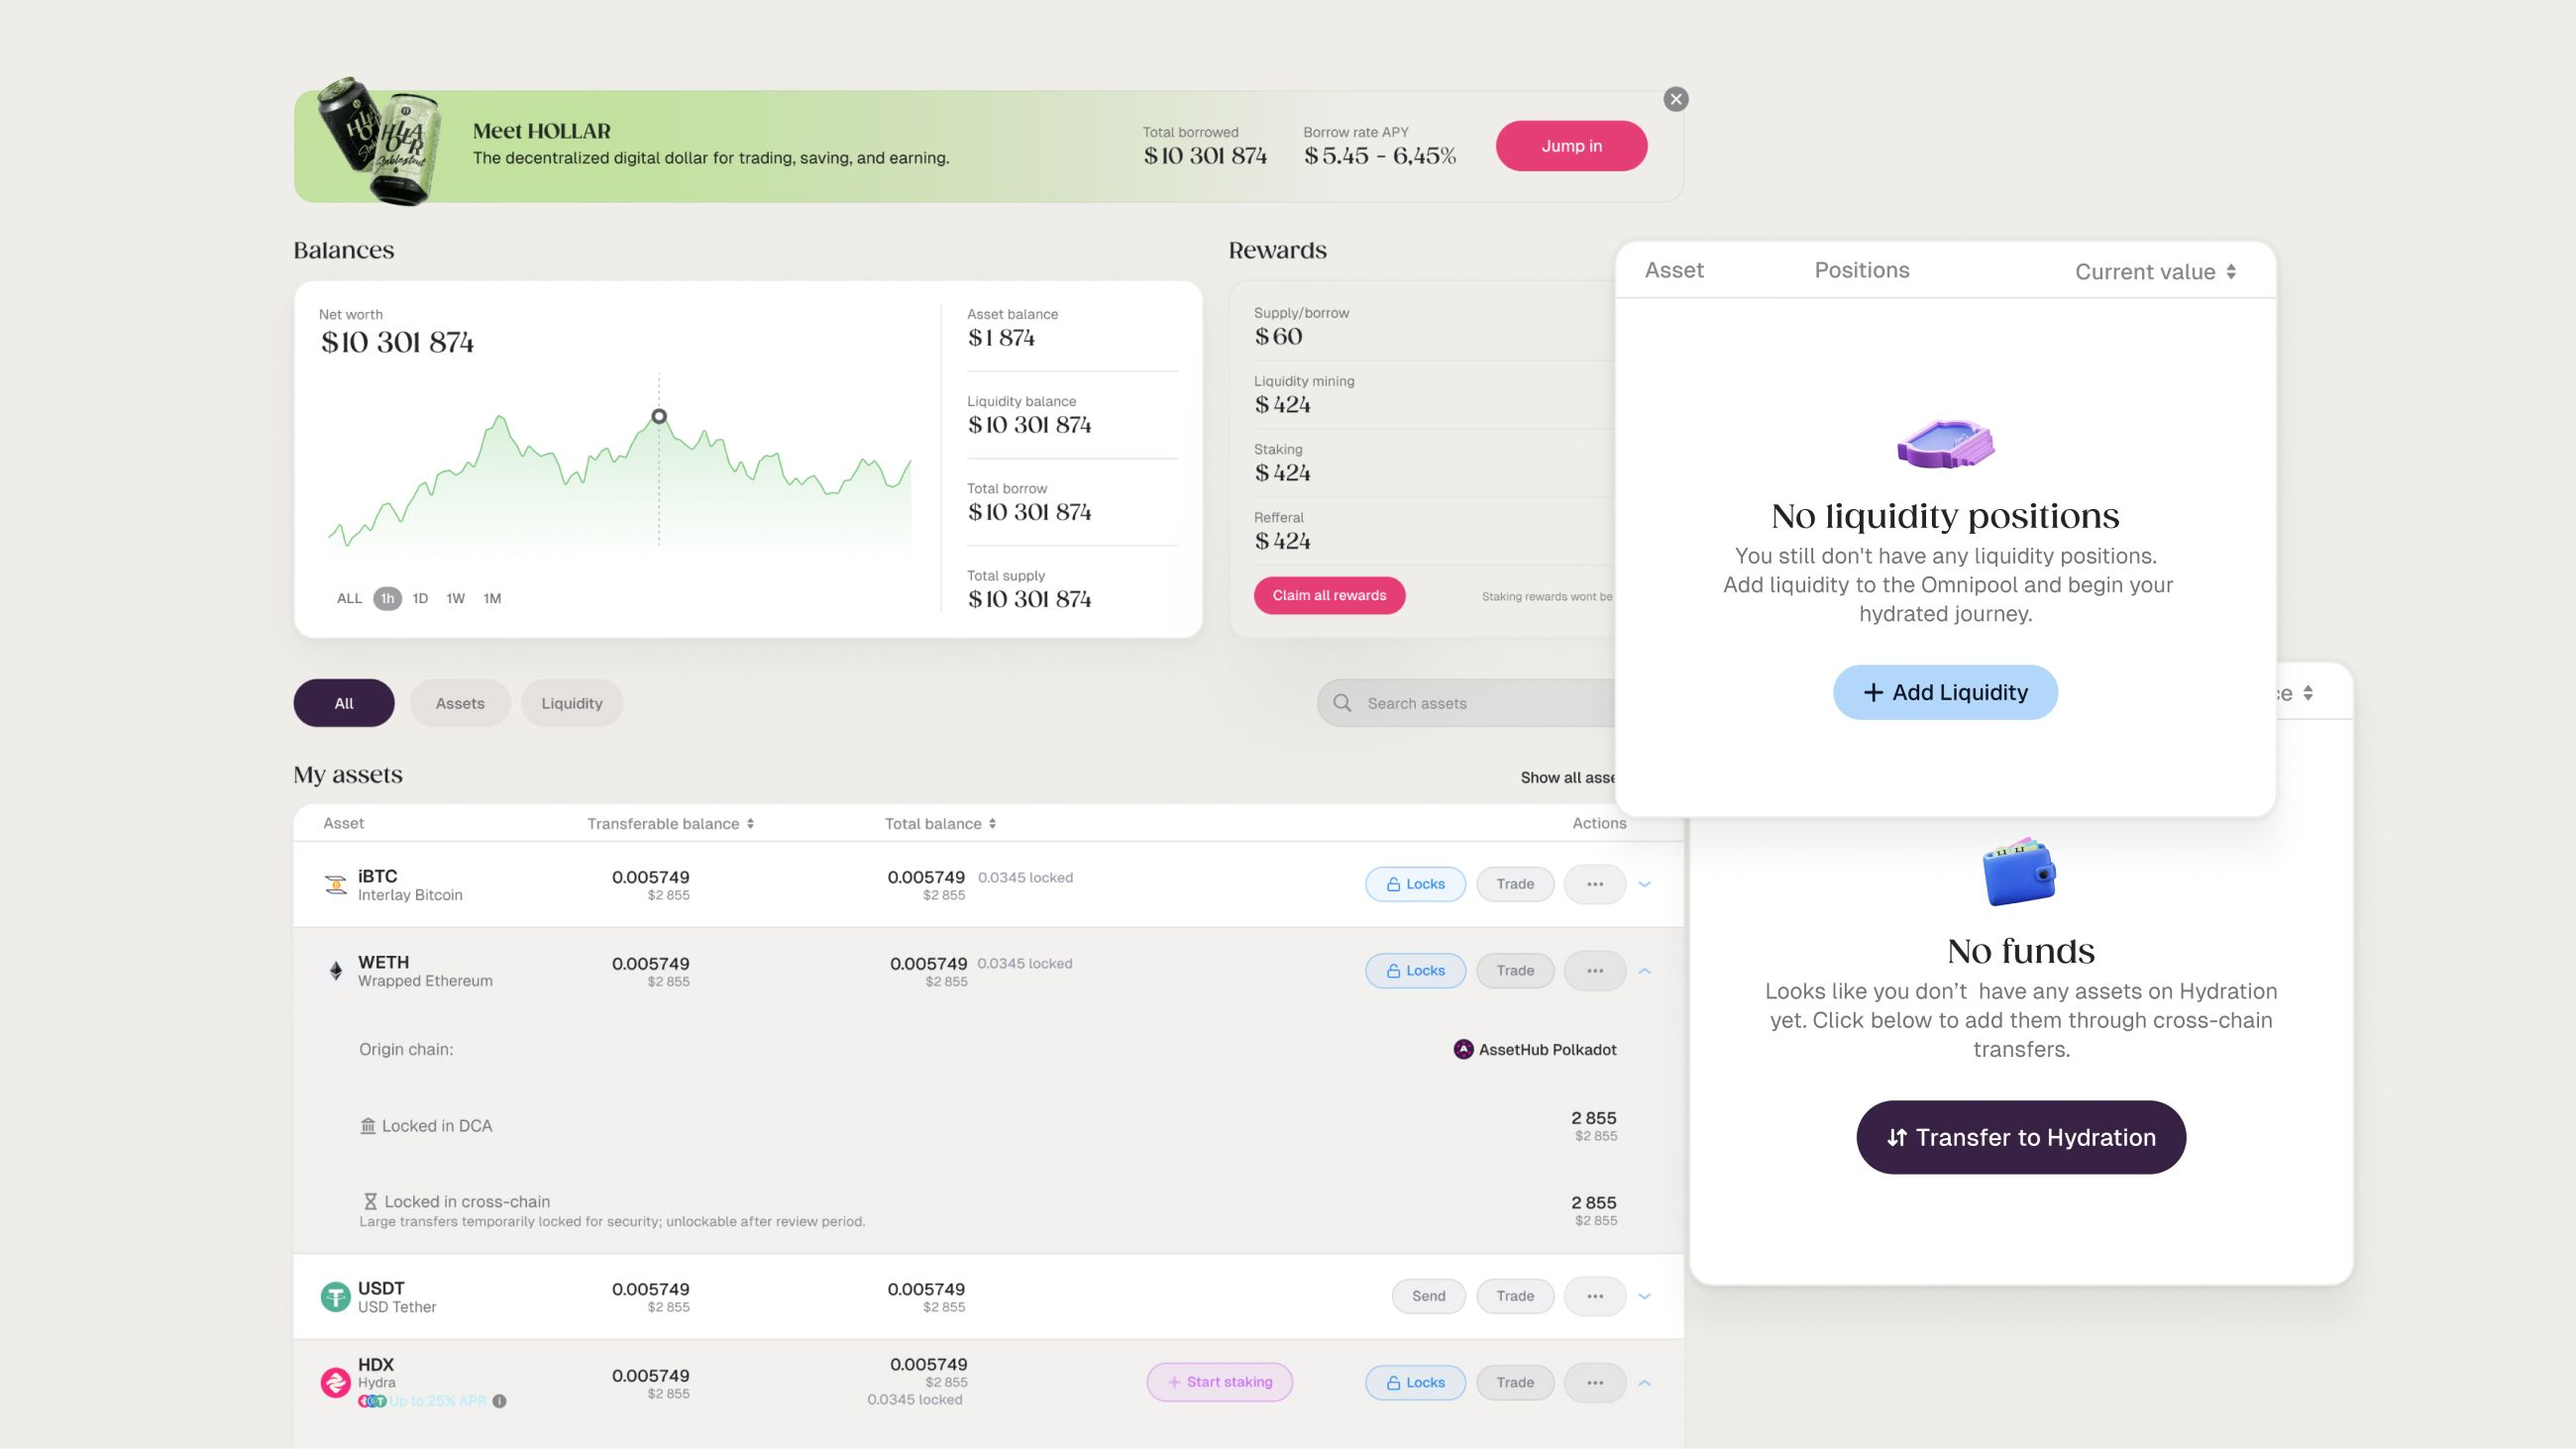
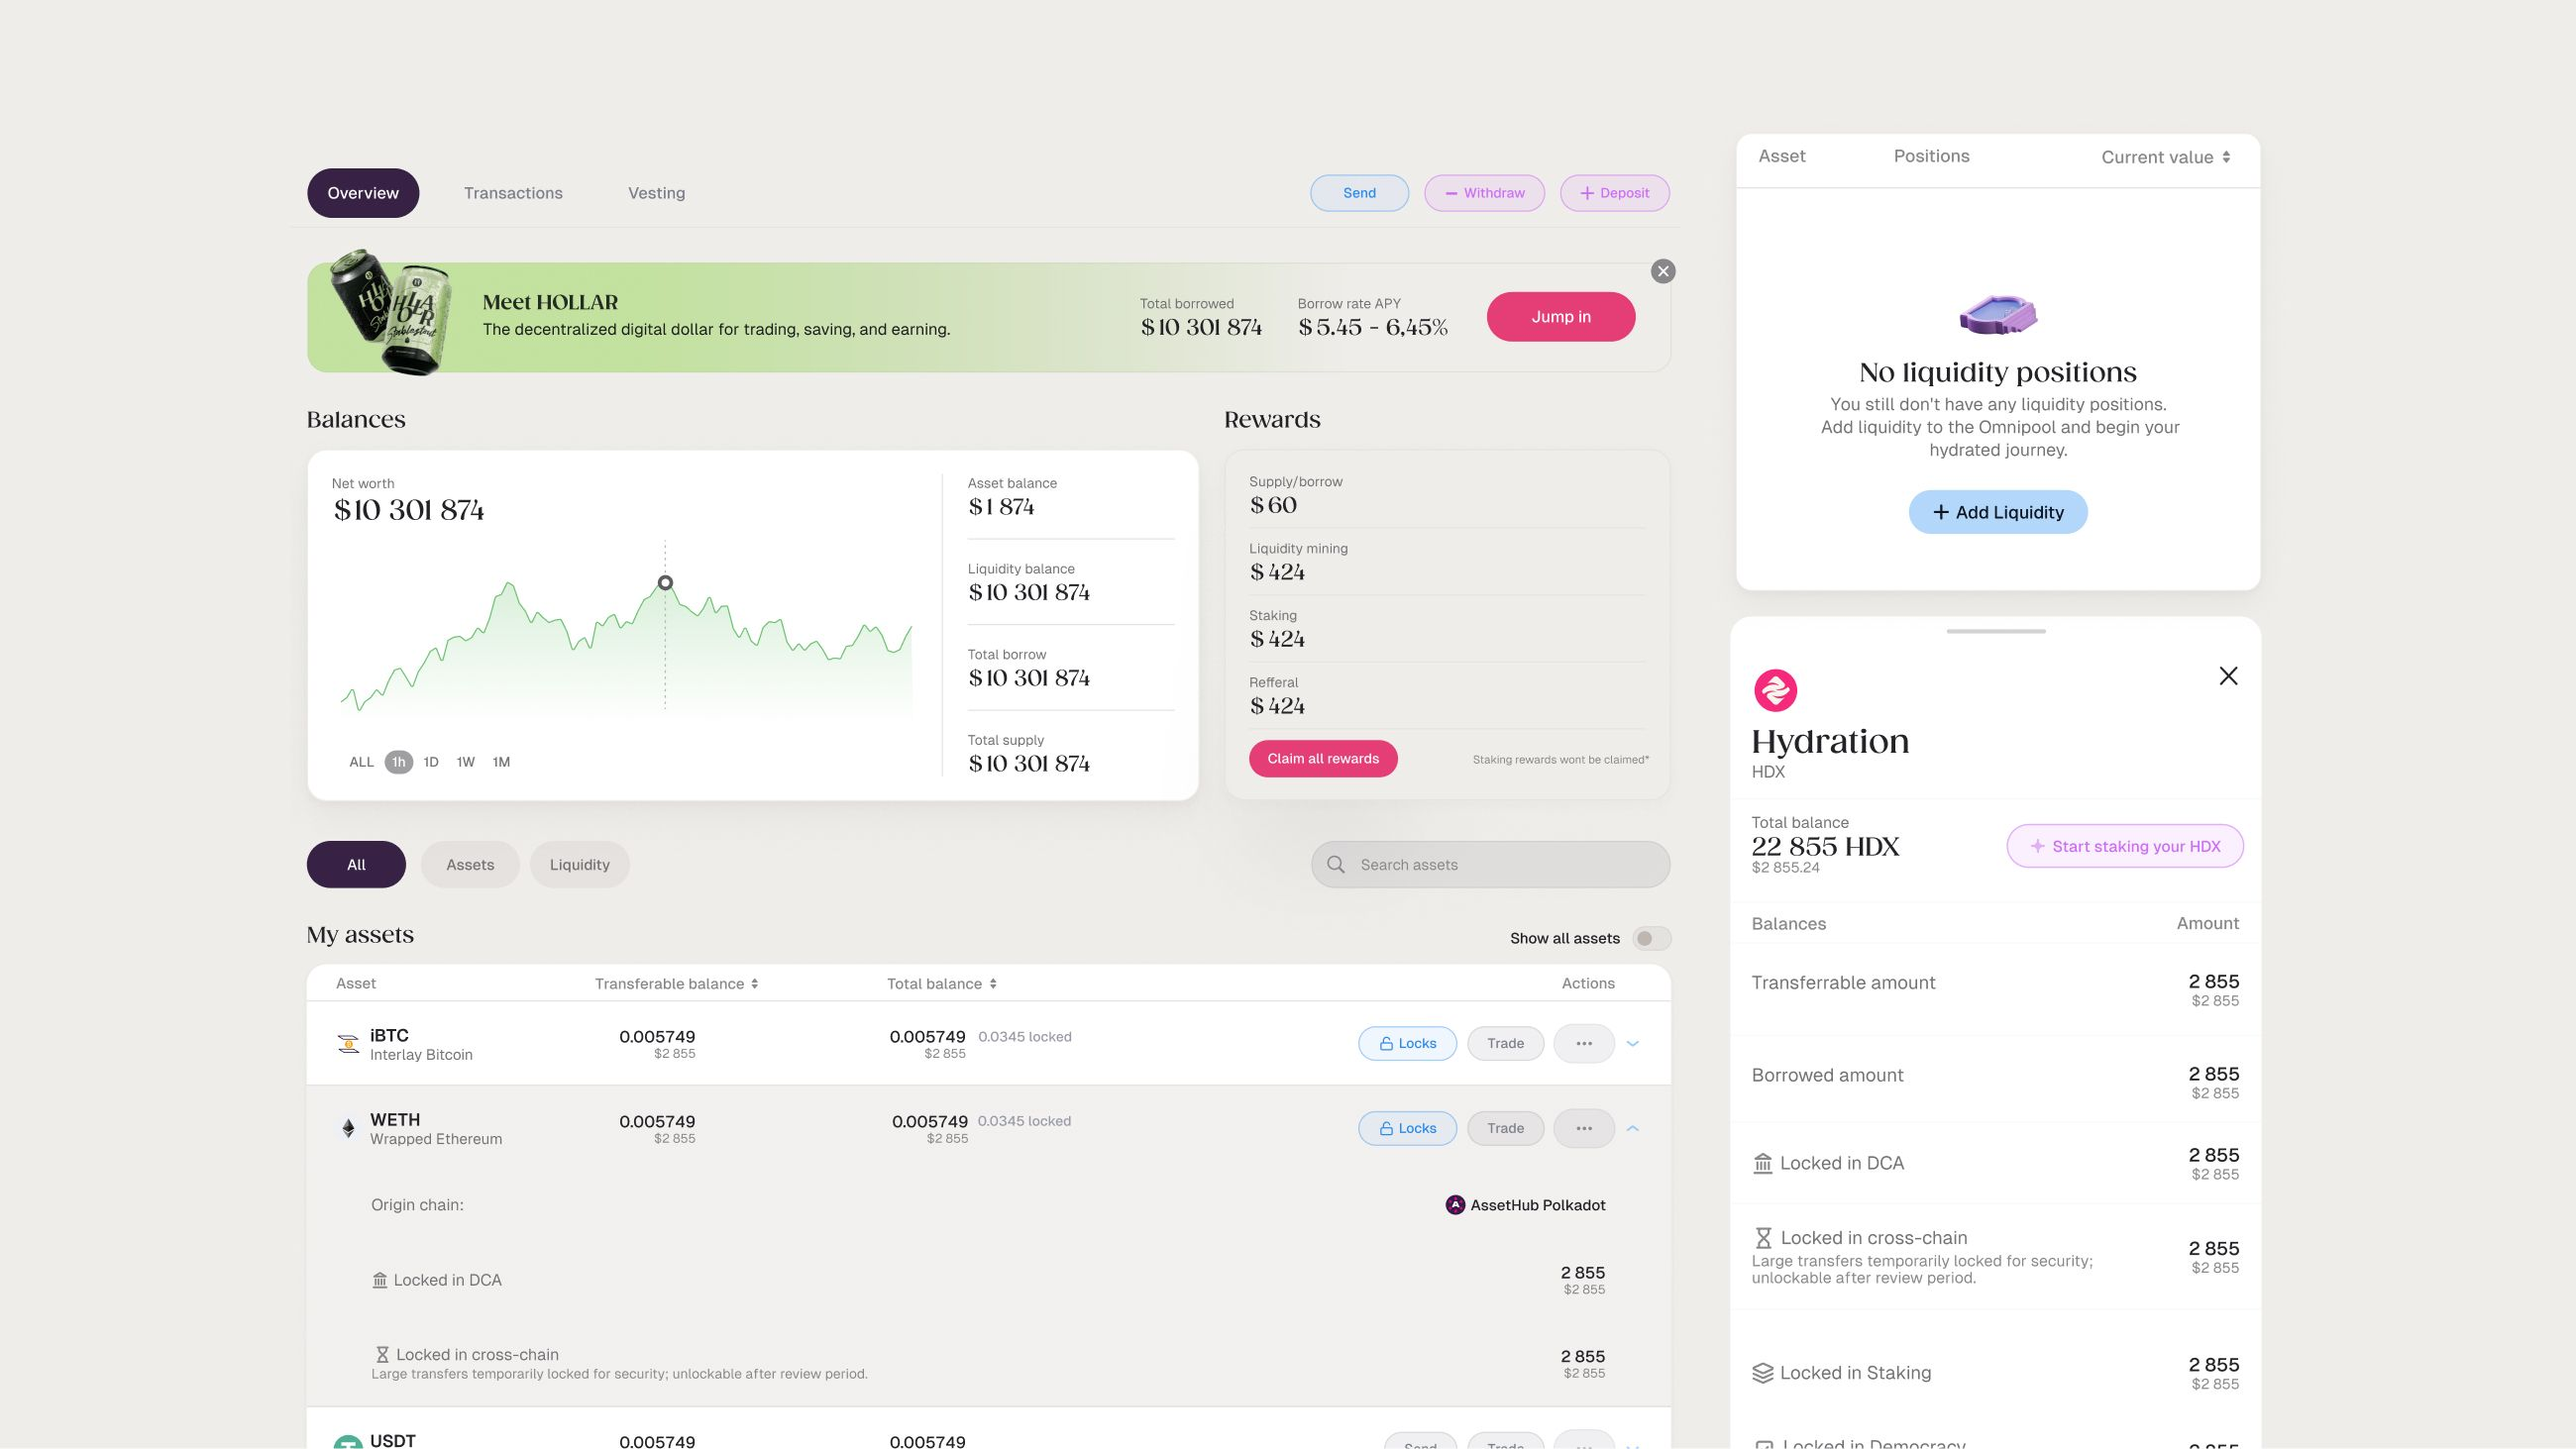
Update hydration project: Add dark mode assets for slides 5 and 6

diff --git a/source/work/hydration.md b/source/work/hydration.md
@@ -13,8 +13,10 @@ carousel:
   - /images/work/hydration_3.jpg
   - light: /images/work/hydration_4.jpg
     dark: /images/work/hydration_4_dark.jpg
-  - /images/work/hydration_5.jpg
-  - /images/work/hydration_6.jpg
+  - light: /images/work/hydration_5.jpg
+    dark: /images/work/hydration_5_dark.jpg
+  - light: /images/work/hydration_6.jpg
+    dark: /images/work/hydration_6_dark.jpg
 carousel_object_fit: cover
 disable_parallax: true
 carousel_image_scale: 1
